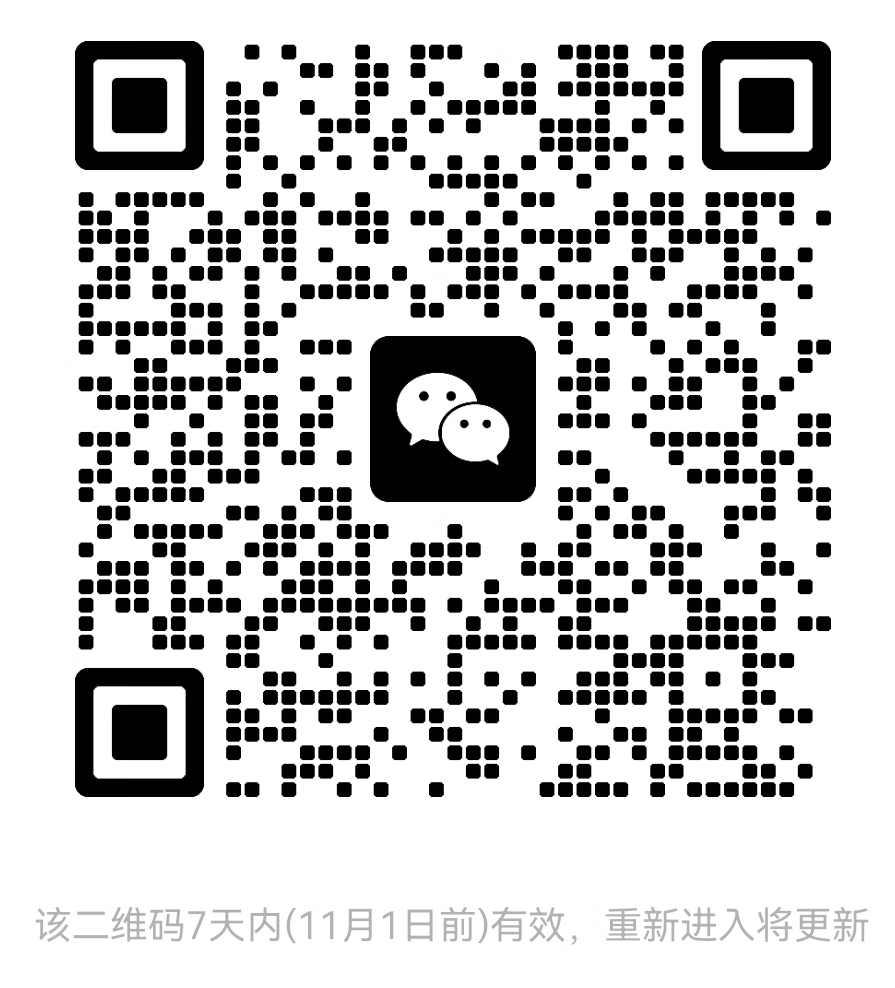
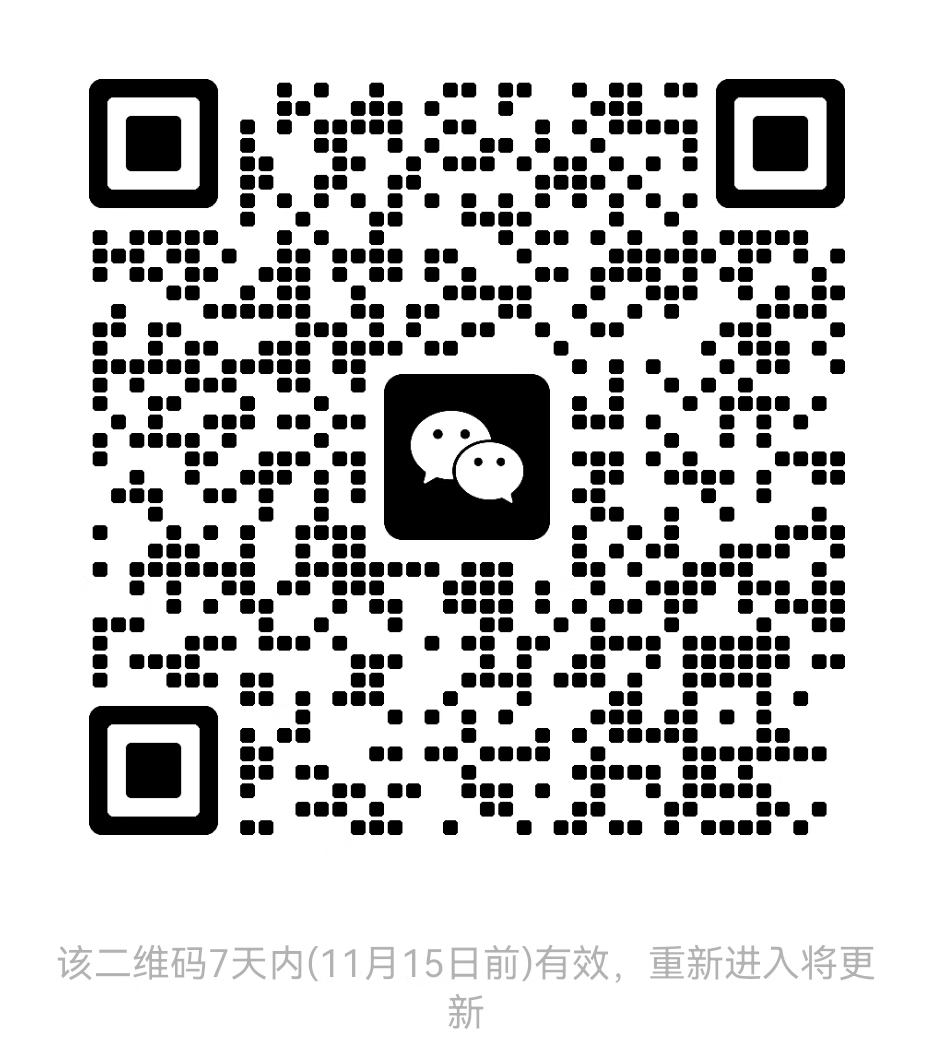
Update weixin (#140)
* Update weixin.png

* Update readme

diff --git a/README-zh.md b/README-zh.md
@@ -8,7 +8,7 @@
 [![Percentage of issues still open](http://isitmaintained.com/badge/open/jd-opensource/joylive-agent.svg)](http://isitmaintained.com/project/jd-opensource/joylive-agent "Percentage of issues still open")
 [![Slack Status](https://img.shields.io/badge/slack-join_chat-white.svg?logo=slack&style=social)](https://joylivehq.slack.com)
 
-<img src="docs/image/weixin.png" title="该二维码有效期截止到2024/7/8" width="150"  />
+<img src="docs/image/weixin.png" title="该二维码有效期截止到2024/11/15" width="150"  />
 
 [English](./README.md) | 简体中文
 

diff --git a/README.md b/README.md
@@ -8,7 +8,7 @@
 [![Percentage of issues still open](http://isitmaintained.com/badge/open/jd-opensource/joylive-agent.svg)](http://isitmaintained.com/project/jd-opensource/joylive-agent "Percentage of issues still open")
 [![Slack Status](https://img.shields.io/badge/slack-join_chat-white.svg?logo=slack&style=social)](https://joylivehq.slack.com)
 
-<img src="docs/image/weixin.png" title="The QR code is valid until 2024/7/8" width="150" />
+<img src="docs/image/weixin.png" title="The QR code is valid until 2024/11/15" width="150" />
 
 English | [简体中文](./README-zh.md)
 
